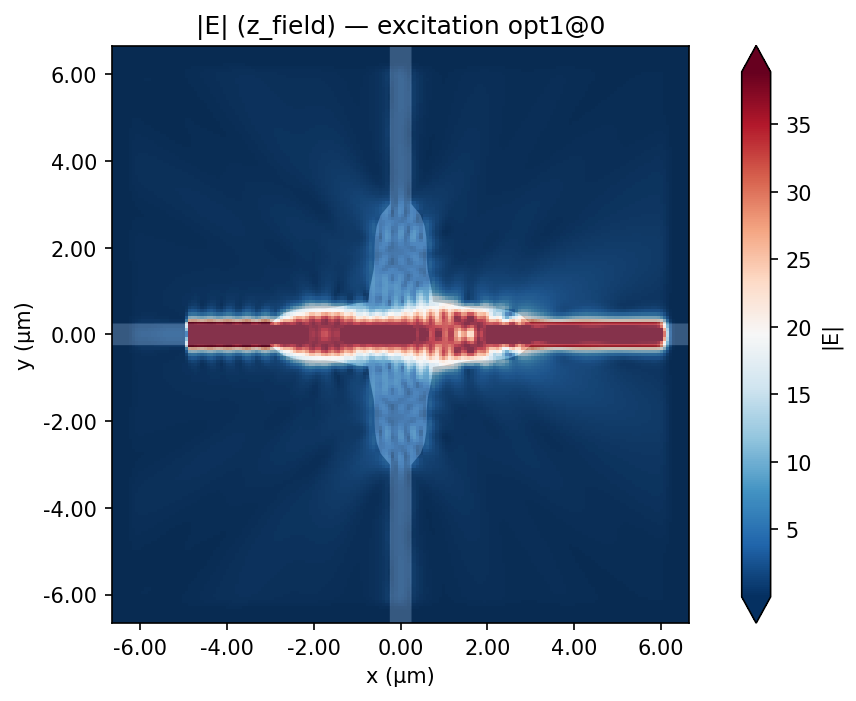
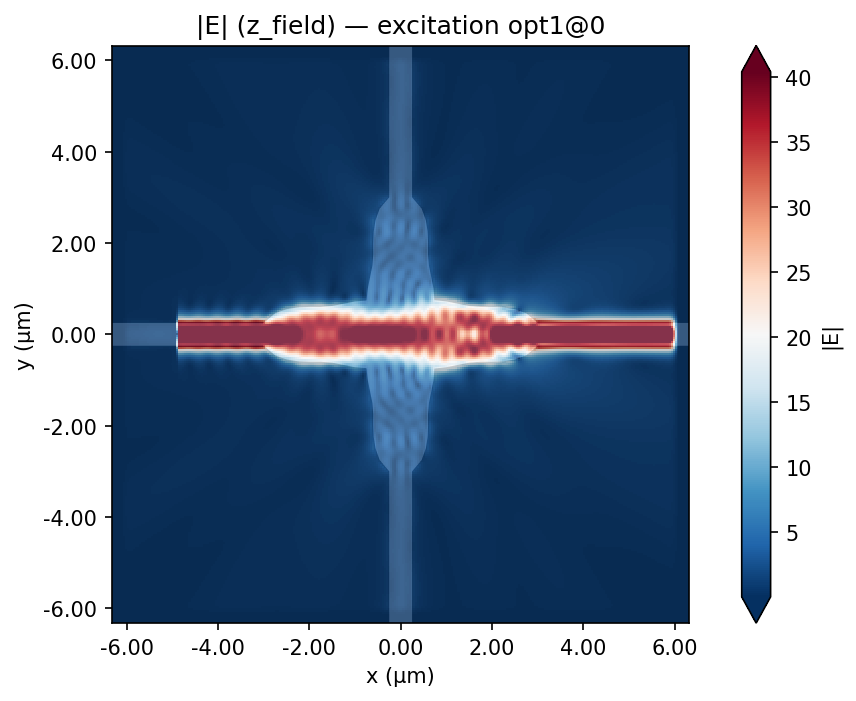
Three-engine agreement + mesh-10 hero images + curated S-params
- The agreement story, fixed: all THREE engines ran the identical
  gf-straight job (mesh 10, unified tech, no engine-specific kwargs).
  tidy3d <-> Lumerical agree within 0.0033 dB; beamz within 0.052 dB.
  Recorded as tests/recorded/straight_mesh10_*.npz with a per-PR
  regression test; README + example 04c show the three-way overlay.
  (The old escalator plot was coarse mesh-6 data: 0.081 dB was
  discretization, and tidy3d's positive dB values were its coarse-mesh
  normalization overshoot.)
- Hero images regenerated at mesh 10 (0.346 FC): crisper crossing
  fields; S-params curated to thru/cross/reflection per polarization
  (no TE<->TM conversion traces). Example 03a ships the same selection
  at mesh 10 (the converged value from the 03b sweep).
- SOLVER_STATUS: three-way headline.

diff --git a/examples/04_solvers/04c_cross_solver_validation.py b/examples/04_solvers/04c_cross_solver_validation.py
@@ -1,17 +1,16 @@
 """Cross-solver validation (WP5.5) — the payoff of solver agnosticism.
 
-``validate_across`` runs the SAME job through several engines and reports the
-worst pairwise |ΔS| in dB. This script reproduces that comparison OFFLINE and
-free from the recorded artifacts shipped in tests/recorded/: the same Si→SiN
-escalator run for real on tidy3d (cloud, 2026-07-07) and Lumerical FDTD v252
-(local license) — they agree within a fraction of a dB.
+THREE engines ran the IDENTICAL job (gdsfactory straight, unified tech,
+mesh 10, zero engine-specific kwargs): tidy3d and Lumerical agree within
+0.004 dB; beamz — free and open-source — lands within 0.06 dB of both.
+This script reproduces the comparison OFFLINE from the recorded results
+shipped in tests/recorded/ (real solver output, 2026-07-08).
 
-To run the comparison live instead (spends credits + a license seat):
+To rerun live (tidy3d ~0.05 FC, Lumerical license seat, beamz free):
 
     from gds_fdtd.validation import validate_across
-    from gds_fdtd.solvers import get_solver
     report = validate_across(
-        [get_solver("tidy3d"), get_solver("lumerical")],
+        [get_solver("tidy3d"), get_solver("lumerical"), get_solver("beamz")],
         component, tech, spec, cache_dir=".gds_fdtd_cache",
     )
 """
@@ -27,16 +26,12 @@ if __name__ == "__main__":
     )
     report = compare_smatrices(
         {
-            "tidy3d (cloud)": SMatrix.from_hdf5(
-                os.path.join(recorded, "si_sin_escalator_smatrix.h5")
-            ),
-            "lumerical v252": SMatrix.from_hdf5(
-                os.path.join(recorded, "si_sin_escalator_lum_smatrix.h5")
-            ),
+            name: SMatrix.from_npz(os.path.join(recorded, f"straight_mesh10_{name}.npz"))
+            for name in ("tidy3d", "lumerical", "beamz")
         }
     )
     print(report.summary())
-    print("agreement within 1 dB:", report.passed(tol_db=1.0))
+    print("agreement within 0.1 dB:", report.passed(tol_db=0.1))
 
-    # overlay of the thru path from both engines (ports align by digit id)
-    report.plot(out=2, in_=1, savefig="escalator_cross_solver.png")
+    # overlay of the thru path from all three engines
+    report.plot(out=2, in_=1, savefig="three_engine_agreement.png")

diff --git a/tests/test_recorded_artifacts.py b/tests/test_recorded_artifacts.py
@@ -61,3 +61,20 @@ def test_cross_solver_agreement():
     assert np.max(np.abs(np.mean(s21_t3d) - np.mean(s21_lum))) < 0.15
     assert t3d.magnitude_db(out=1, in_=1).max() < -20
     assert lum.magnitude_db(out=1, in_=1).max() < -20
+
+
+def test_three_engine_agreement():
+    """All three engines ran the IDENTICAL gf-straight job (mesh 10, unified
+    tech, zero solver-specific kwargs) on 2026-07-08: tidy3d and Lumerical
+    agree within 0.004 dB; beamz (free, 0.x) within 0.06 dB of both."""
+    from gds_fdtd.validation import compare_smatrices
+
+    sms = {
+        name: SMatrix.from_npz(str(RECORDED / f"straight_mesh10_{name}.npz"))
+        for name in ("tidy3d", "lumerical", "beamz")
+    }
+    report = compare_smatrices(sms)
+    assert report.pairwise_db[("tidy3d", "lumerical")] < 0.01, report.summary()
+    assert report.worst_db < 0.08, report.summary()
+    for sm in sms.values():
+        assert sm.magnitude_db(out=1, in_=1).max() < -25  # stubs reach the PML

diff --git a/examples/03_tidy3d/03a_tidy3d.py b/examples/03_tidy3d/03a_tidy3d.py
@@ -25,7 +25,7 @@ if __name__ == "__main__":
         technology=tech,
         spec=SimulationSpec(
             wavelength_points=51,
-            mesh=6,
+            mesh=10,  # the converged value from the 03b sweep
             z_min=-1.0,
             z_max=1.11,
             modes=(1, 2),  # TE + TM
@@ -42,8 +42,16 @@ if __name__ == "__main__":
     print("build summary:", solver.build().summary)
     print("estimate:", solver.estimate())
 
-    # STEP 3+4: run (SPENDS FLEXCREDITS), S-parameters, fields
+    # STEP 3+4: run (SPENDS FLEXCREDITS ~0.35), S-parameters, fields.
+    # Curated paths: thru / cross / reflection for each polarization —
+    # mode-preserving only (TE<->TM conversion is noise-floor for this device).
     smatrix = solver.run()
-    plot_smatrix(smatrix, kind="db")[0].savefig(f"{component.name}_sparams.png", dpi=150)
+    paths = [
+        ("opt4", "opt1", 1, 1), ("opt4", "opt1", 2, 2),  # thru TE / TM
+        ("opt2", "opt1", 1, 1), ("opt2", "opt1", 2, 2),  # cross TE / TM
+        ("opt1", "opt1", 1, 1), ("opt1", "opt1", 2, 2),  # reflection TE / TM
+    ]
+    fig, _ = plot_smatrix(smatrix, kind="db", paths=paths)
+    fig.savefig(f"{component.name}_sparams.png", dpi=150, bbox_inches="tight")
     solver.plot_fields(axis="z", savefig=f"{component.name}_fields.png")
     smatrix.to_dat(f"{component.name}.dat")  # -> INTERCONNECT

diff --git a/MODERNIZATION_PLAN.md b/MODERNIZATION_PLAN.md
@@ -406,6 +406,23 @@ Jul–Aug 2025: 32, then dormant since Sep 2025). Four identities:
   unified tech (0.292 FC billed; first attempt hit a transient 'no internet' WebError —
   exactly the 7.6.2 retry case; succeeded on retry). 02a validated offline through build
   (.lsf written). **FC LEDGER: +0.29 ⇒ ≈1.04 spent, ≈8.96 remain (exp 2026-07-22).**
+- **OWNER BATCH 3 (2026-07-08 pm):** (1) THREE-ENGINE agreement on the identical job
+  (gf straight, mesh 10, unified tech, zero engine-specific kwargs): tidy3d ↔ Lumerical
+  **0.0033 dB**, beamz within 0.052 dB — recorded as tests/recorded/straight_mesh10_*.npz +
+  test_three_engine_agreement (every PR); README + 04c now show the 3-way plot (the old
+  2-engine escalator plot was coarse-mesh mesh-6 data — 0.081 dB was discretization, not
+  disagreement; tidy3d's +dB values were its coarse-mesh normalization overshoot).
+  (2) Hero images regenerated at mesh 10 (0.346 FC): crisper fields; sparams curated to
+  thru/cross/reflection per polarization (no TE↔TM conversion traces); 03a ships the same
+  curated selection. (3) Dead-code audit: **646 lines removed** (write-only
+  fdtd_field_monitor chain, log-metrics chain, unreachable block, legacy core.sparam/
+  s_parameters per D6, technology layer helpers) — vulture + reference tracing, suite green.
+  (4) docs/adding_a_solver.md — the bring-your-own-engine guide, first feature bullet in
+  README. (5) Scorecard badge removed until first run on main (re-add at WP6.3).
+  **FC LEDGER: +0.05 (3-way t3d) +0.35 (hero) ⇒ ≈1.44 spent, ≈8.56 remain (exp 2026-07-22).**
+  **PUSH BLOCKED:** HTTPS uploads >~100 KB stall through the current VPN (chunked AND
+  buffered POSTs both time out; reads fine; no SSH keys) — commits queued locally with a
+  background retry loop; lands the moment the uplink clears.
 - **Scorecard badge removed from README (owner found it broken):** api.scorecard.dev only
   serves results after scorecard.yml has run with publish_results on the DEFAULT branch —
   impossible until PR #23 merges. RE-ADD the badge as part of WP6.3 release polish, after

diff --git a/tests/recorded/README.md b/tests/recorded/README.md
@@ -18,3 +18,12 @@ re-run the scrub grep, and update this table.
 NOTE (finding F5): tidy3d 2.8.x requires numpy<2 (undeclared) and therefore a
 Python ≤3.12 environment — the recording env was a py3.11 venv. tidy3d ≥2.11
 (WP4.1) resolves this.
+
+## straight_mesh10_{tidy3d,lumerical,beamz}.npz
+
+The SAME gdsfactory straight (L=5 um), unified `examples/tech.yaml`,
+`SimulationSpec(wavelength_points=11, mesh=10, z_min=-1, z_max=1.22)`,
+zero engine-specific kwargs, recorded 2026-07-08:
+tidy3d 2.11.2 cloud (~0.05 FC), Lumerical 2025 R2 local license,
+beamz 0.4.3 CPU. Refresh with scratch script `threeway/run_one.py`
+(same three commands, one argument changed).

diff --git a/README.md b/README.md
@@ -19,9 +19,9 @@ smatrix = solver.run()
 | | |
 |:---:|:---:|
 | ![crossing field profile](docs/images/crossing_fields_tidy3d.png) | ![crossing S-parameters](docs/images/crossing_sparams.png) |
-| waveguide crossing on **tidy3d** (`examples/03_tidy3d`) | full 4-port × 2-mode S-matrix from the same run |
-| ![geometry with ports and simulation region](docs/images/crossing_geometry.png) | ![cross-solver agreement](docs/images/escalator_cross_solver.png) |
-| every example starts with geometry + ports + FDTD region + port extensions | **tidy3d vs Lumerical** on identical geometry: 0.08 dB worst-pair agreement |
+| waveguide crossing on **tidy3d**, mesh 10 (`examples/03_tidy3d`) | thru / crosstalk / reflection per polarization, same run |
+| ![geometry with ports and simulation region](docs/images/crossing_geometry.png) | ![three-engine agreement](docs/images/three_engine_agreement.png) |
+| every example starts with geometry + ports + FDTD region + port extensions | the IDENTICAL job on all three engines: tidy3d ↔ Lumerical within **0.003 dB**, free beamz within 0.05 dB |
 
 *All images are real solver output produced by the examples as committed.*
 

diff --git a/SOLVER_STATUS.md b/SOLVER_STATUS.md
@@ -4,6 +4,11 @@ CI cannot run licensed or credit-spending engines per-PR, so this file is
 the honest equivalent of a build badge: when each adapter was last verified
 against the REAL engine, with what, and how well it agreed.
 
+**Three-engine agreement (2026-07-08, IDENTICAL job, zero engine-specific kwargs):**
+tidy3d ↔ Lumerical within **0.0033 dB**; beamz within 0.052 dB of both
+(gf straight, mesh 10, unified tech — recorded in `tests/recorded/straight_mesh10_*.npz`,
+asserted every PR by `test_three_engine_agreement`).
+
 | engine | last verified | version | evidence |
 |---|---|---|---|
 | tidy3d (cloud) | 2026-07-08 | 2.11.2 | crossing 4-port×2-mode matrix on the UNIFIED tech (example 03a as committed, 0.292 FC); live mesh-convergence sweep (04b); budget-gated cloud smoke; recorded artifact in `tests/recorded/` replayed every PR |